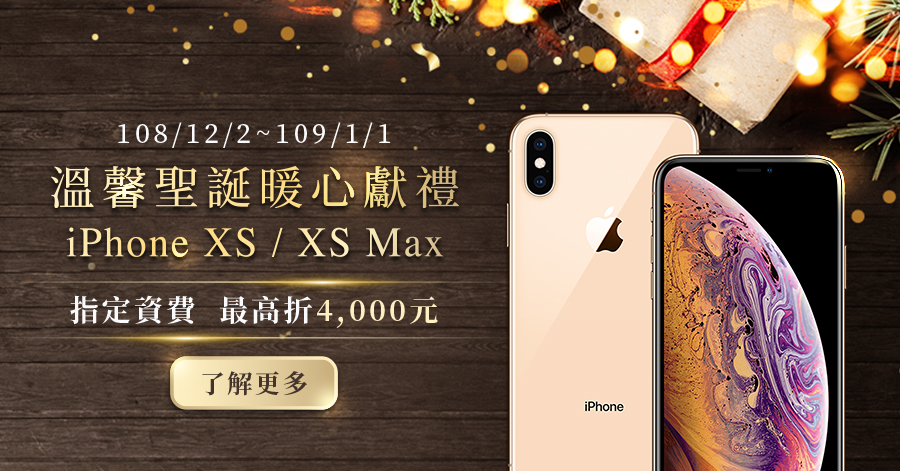
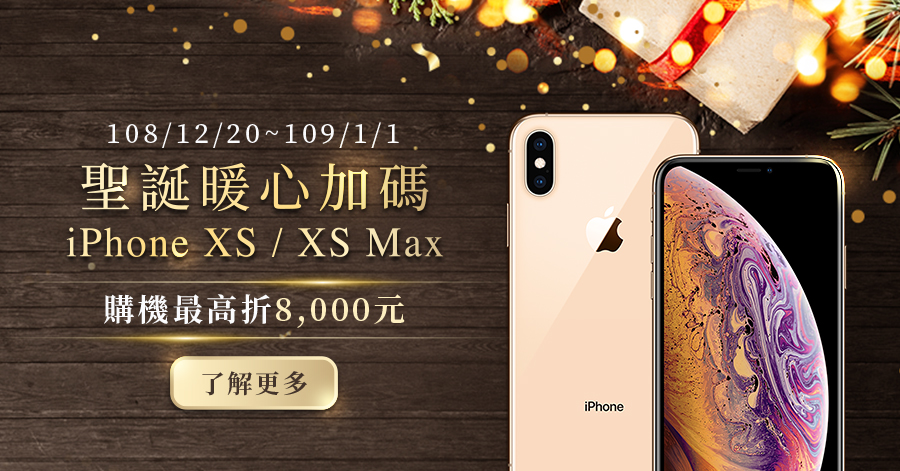
iPhone
各方案活動日期調整
各方案活動地點調整
大4G方案內容更換
大4G保護文字修改
學生方案機型價格調整
699方案機型價格調整
升4G方案機型價格調整
單購機方案機型價格調整

Changed region(s): [[0.0622, 0.2378, 0.5289, 0.4459], [0.0622, 0.6242, 0.4978, 0.6837]]

diff --git a/demo/iPhone/index.html b/demo/iPhone/index.html
@@ -40,21 +40,20 @@
 		<div class="swiper-wrapper">
 			<div class="swiper-slide">
 				<div class="main main-index container "> 
-				<div class="addBox">
-						<div class="box desktop-only">
-				<img class="index-image-iphone desktop-only" src="assets/images/banner_summer.jpg" usemap="#image-mapa02">
-				<map name="image-mapa02">
-				    <area target="" alt="了解更多" title="了解更多" href="https://iphone-eshop.cdn.hinet.net/Next.html?_ga=2.102152961.1258068184.1571229683-1536165108.1559028414" onclick="javascript:ga('send', 'event', 'btn1', 'action', 'iphone11moreinfo');" coords="535,352,681,404" shape="rect">
-				    <!-- <area target="_blank" alt="立即申辦" title="立即申辦" href="https://www.cht.com.tw/home/consumer/mobservice/device/phones?&_ga=2.94269402.650880896.1566806649-1759749731.1564449961#!brand%3Avalues%3Dapple%26_orderby%3A%26_page%3A1" coords="639,352,779,395" shape="rect"> -->
-				</map>
-				</div>
-				</div>
-
+					<div class="addBox desktop-only">
+						<div class="box">
+							<img class="index-image-iphone desktop-only" src="assets/images/banner_xmas.jpg" usemap="#mapmas">
+							<map name="mapmas">
+					    		<area target="_blank" alt="了解更多" title="了解更多" href="https://www.cht.com.tw/home/campaign/4gxmasapple?utm_campaign=4gxmas&utm_source=emome.net&utm_medium=referral&utm_content=iphone_pc" onclick="javascript:ga('send', 'event', 'btn1', 'action', '1220moreinfo');" coords="170,358,339,411" shape="rect">
+					    		<!-- <area target="_blank" alt="立即申辦" title="立即申辦" href="https://www.cht.com.tw/home/consumer/mobservice/device/phones?&_ga=2.94269402.650880896.1566806649-1759749731.1564449961#!brand%3Avalues%3Dapple%26_orderby%3A%26_page%3A1" coords="639,352,779,395" shape="rect"> -->
+							</map>
+						</div>
+					</div>
 					<div class="addBox mobile-only ">
 						<div class="box ">
-							<img class="index-image-iphone mobile-only " src="assets/images/banner_summer_m.jpg" usemap="#image-mapa01">
-							<map name="image-mapa01">
-								<area target="" alt="了解更多" title="了解更多" href="https://iphone-eshop.cdn.hinet.net/Next.html?_ga=2.102152961.1258068184.1571229683-1536165108.1559028414" onclick="javascript:ga('send', 'event', 'btn1', 'action', 'iphone11moreinfo');" coords="117,405,204,435" shape="rect">
+							<img class="index-image-iphone mobile-only " src="assets/images/banner_xmas_m.jpg" usemap="#mapmas_m">
+							<map name="mapmas_m">
+								<area target="_blank" alt="了解更多" title="了解更多" href="https://www.cht.com.tw/home/campaign/4gxmasapple?utm_campaign=4gxmas&utm_source=emome.net&utm_medium=referral&utm_content=iphone_m" onclick="javascript:ga('send', 'event', 'btn1', 'action', '1220moreinfo');" coords="107,391,216,427" shape="rect">
 							    <!-- <area target="_blank" alt="立即申辦" title="立即申辦" href="https://www.cht.com.tw/home/consumer/mobservice/device/phones?&_ga=2.94269402.650880896.1566806649-1759749731.1564449961#!brand%3Avalues%3Dapple%26_orderby%3A%26_page%3A1" coords="166,383,245,406" shape="rect">-->
 							</map>
 						</div>
@@ -63,34 +62,33 @@
 			</div>
 			<div class="swiper-slide">
 				<div class="main main-index container "> 
-					<div class="addBox">
-							<div class="box desktop-only">
-								<img class="index-image-iphone desktop-only" src="assets/images/banner_xmas.jpg" usemap="#mapmas">
-								<map name="mapmas">
-						    		<area target="_blank" alt="了解更多" title="了解更多" href="https://tracker.ssp.hinet.net/c/283?utm_campaign=4gxmas&utm_source=emome.net&utm_medium=referral&utm_content=iphone_pc" onclick="javascript:ga('send', 'event', 'btn1', 'action', 'iphoneXSmoreinfo');" coords="170,358,339,411" shape="rect">
-						    		<!-- <area target="_blank" alt="立即申辦" title="立即申辦" href="https://www.cht.com.tw/home/consumer/mobservice/device/phones?&_ga=2.94269402.650880896.1566806649-1759749731.1564449961#!brand%3Avalues%3Dapple%26_orderby%3A%26_page%3A1" coords="639,352,779,395" shape="rect"> -->
-								</map>
-							</div>
+					<div class="addBox desktop-only">
+						<div class="box">
+							<img class="index-image-iphone desktop-only" src="assets/images/banner_summer.jpg" usemap="#image-mapa02">
+							<map name="image-mapa02">
+							    <area target="" alt="了解更多" title="了解更多" href="https://iphone-eshop.cdn.hinet.net/Next.html?_ga=2.102152961.1258068184.1571229683-1536165108.1559028414" onclick="javascript:ga('send', 'event', 'btn1', 'action', 'iphone11moreinfo');" coords="535,352,681,404" shape="rect">
+							    <!-- <area target="_blank" alt="立即申辦" title="立即申辦" href="https://www.cht.com.tw/home/consumer/mobservice/device/phones?&_ga=2.94269402.650880896.1566806649-1759749731.1564449961#!brand%3Avalues%3Dapple%26_orderby%3A%26_page%3A1" coords="639,352,779,395" shape="rect"> -->
+							</map>
+						</div>
 					</div>
 					<div class="addBox mobile-only ">
 						<div class="box ">
-							<img class="index-image-iphone mobile-only " src="assets/images/banner_xmas_m.jpg" usemap="#mapmas_m">
-							<map name="mapmas_m">
-								<area target="_blank" alt="了解更多" title="了解更多" href="https://tracker.ssp.hinet.net/c/284?utm_campaign=4gxmas&utm_source=emome.net&utm_medium=referral&utm_content=iphone_m" onclick="javascript:ga('send', 'event', 'btn1', 'action', 'iphoneXSmoreinfo');" coords="107,391,216,427" shape="rect">
-							    <!-- <area target="_blank" alt="立即申辦" title="立即申辦" href="https://www.cht.com.tw/home/consumer/mobservice/device/phones?&_ga=2.94269402.650880896.1566806649-1759749731.1564449961#!brand%3Avalues%3Dapple%26_orderby%3A%26_page%3A1" coords="166,383,245,406" shape="rect">-->
-							</map>
+							<img class="index-image-iphone mobile-only " src="assets/images/banner_summer_m.jpg" usemap="#image-mapa01">
+								<map name="image-mapa01">
+									<area target="" alt="了解更多" title="了解更多" href="https://iphone-eshop.cdn.hinet.net/Next.html?_ga=2.102152961.1258068184.1571229683-1536165108.1559028414" onclick="javascript:ga('send', 'event', 'btn1', 'action', 'iphone11moreinfo');" coords="117,405,204,435" shape="rect">
+								    <!-- <area target="_blank" alt="立即申辦" title="立即申辦" href="https://www.cht.com.tw/home/consumer/mobservice/device/phones?&_ga=2.94269402.650880896.1566806649-1759749731.1564449961#!brand%3Avalues%3Dapple%26_orderby%3A%26_page%3A1" coords="166,383,245,406" shape="rect">-->
+								</map>
 						</div>
 					</div>
 				</div>
 			</div>
             <div class="swiper-slide">
 				<div class="main main-index container "> 
-				<div class="addBox desktop-only">
-				    <div class="box">
-				        <a href="https://itunes.emome.net/2019icloudevent" onclick="javascript:ga('send', 'event', 'btn1', 'action', 'icloud');"><img class="index-image-iphone desktop-only" src="assets/images/banner.jpg" ></a>
-				    </div>
-				</div>
-
+					<div class="addBox desktop-only">
+					    <div class="box">
+					        <a href="https://itunes.emome.net/2019icloudevent" onclick="javascript:ga('send', 'event', 'btn1', 'action', 'icloud');"><img class="index-image-iphone desktop-only" src="assets/images/banner.jpg" ></a>
+					    </div>
+					</div>
 					<div class="addBox mobile-only ">
 						<div class="box ">
 							<a href="https://itunes.emome.net/2019icloudevent" onclick="javascript:ga('send', 'event', 'btn1', 'action', 'icloud');"><img class="index-image-iphone mobile-only " src="assets/images/banner_m.jpg" usemap="#image-mapb02"></a>

diff --git a/demo/iPhone/assets/js/app.js b/demo/iPhone/assets/js/app.js
@@ -73,10 +73,10 @@ var plan_content = {
         "content": [
             ["h1row", "iPhone XR", "64GB", "-", "17,500", "16,500"],
             ["h1row", "iPhone XR", "128GB", "-", "19,500", "18,500"],
-            ["h1row", "iPhone XR", "256GB", "-", "23,100", "22,100"],
+            ["h1row", "iPhone XR", "256GB", "-", "21,100", "20,100"],
             ["h1row", "iPhone XS", "64GB", "-", "28,900", "27,900"],
             ["h1row", "iPhone XS", "256GB", "-", "34,500", "33,500"],
-            ["h1row", "iPhone XS", "512GB", "-", "41,900", "40,900"],
+            ["h1row", "iPhone XS", "512GB", "-", "37,900", "36,900"],
             ["h1row", "iPhone XS Max", "64GB", "-", "31,900", "30,900"],
             ["h1row", "iPhone XS Max", "256GB", "-", "37,500", "36,500"],
             ["h1row", "iPhone XS Max", "512GB", "-", "44,900", "43,900"],
@@ -95,9 +95,9 @@ var plan_content = {
     'upgrade.json': {
         "type": "table3",
         "content": [
-            ["iPhone XR", "64GB", "21,500",  "128GB", "23,500", "256GB", "27,100"],
-            ["iPhone XS", "64GB", "32,900",  "256GB", "38,500",  "512GB", "45,900"],
-            ["iPhone XS Max", "64GB", "35,900",  "256GB", "41,500", "512GB", "48,900"],
+            ["iPhone XR", "64GB", "21,500",  "128GB", "23,500", "256GB", "25,100"],
+            ["iPhone XS", "64GB", "32,900",  "256GB", "38,500",  "512GB", "41,900"],
+            ["iPhone XS Max", "64GB", "35,900",  "256GB", "41,500", "512GB", "44,900"],
             ["iPhone 7", "32GB", "12,900","128GB", "14,900"],
             ["iPhone 7 Plus", "32GB", "15,500","128GB", "17,500"],
             ["iPhone 8", "64GB", "15,900","128GB", "17,900",  "256GB", "21,500"],
@@ -184,13 +184,13 @@ var plan_content = {
         "content": [
             ["h1row", "iPhone XR", "64GB", "16,000"],
             ["h1row", "iPhone XR", "128GB", "18,000"],
-            ["h1row", "iPhone XR", "256GB", "21,600"],
+            ["h1row", "iPhone XR", "256GB", "19,600"],
             ["h1row", "iPhone XS", "64GB", "27,400"],
             ["h1row", "iPhone XS", "256GB", "33,000"],
-            ["h1row", "iPhone XS", "512GB", "40,400"],
+            ["h1row", "iPhone XS", "512GB", "36,400"],
             ["h1row", "iPhone XS Max", "64GB", "30,400"],
             ["h1row", "iPhone XS Max", "256GB", "36,000"],
-            ["h1row", "iPhone XS Max", "512GB", "43,400"],
+            ["h1row", "iPhone XS Max", "512GB", "39,400"],
             ["h1row", "iPhone 8", "64GB", "10,400"],
             ["h1row", "iPhone 8", "128GB", "12,400"],
             ["h1row", "iPhone 8", "256GB", "16,000"],

diff --git a/demo/iPhone/plan_4g.html b/demo/iPhone/plan_4g.html
@@ -47,11 +47,11 @@
             <table>
                 <tr>
                     <td>活動期間：</td>
-                    <td>自108/12/02起至109/01/01</td>
+                    <td>自108/12/20起至109/01/01</td>
                 </tr>
                 <tr>
                     <td>申辦地點：</td>
-                    <td>中華電信iPhone服務據點、特約服務中心、中華電信網路門市</td>
+                    <td>中華電信iPhone服務據點(含特約服務中心) / 網路門市</td>
                 </tr>
                 <tr>
                     <td>適用對象：<div id="ttable"></div>
@@ -121,7 +121,7 @@
             <h3><span class="h3-border">貼心小叮嚀</h3>
             <ol>
                 <li> 詳細方案優惠內容與限制請詳閱<a href="https://eshop.cht.com.tw/home/Campaign/big4g/index.html?utm_source=news&utm_medium=referral&utm_campaign=big4g&utm_term=2017q3&_ga=2.98175775.1683239904.1531883624-1448243386.1523848672" target="_blank" onclick="javascript:ga('send', 'event', 'btn1', 'action', '4gnew_more');">大4G方案頁面</a>。</li>
-                <li>108/12/02起至109/01/01止，搭配大4G購機方案(24/30/36個月)購買iPhone XS、iPhone XS Max，月繳999/1,199元購機折2,000元、月繳1,399元以上購機折4,000元，手機促銷至多折至0元止。</li>
+                <li>108/12/20起至109/01/01止，搭配大4G購機方案(24/30/36個月)購買iPhone XS、iPhone XS Max，月繳999/1,199元購機折6,000元、月繳1,399元以上購機折8,000元，手機促銷至多折至0元止。</li>
 				<li> iPhone服務據點詳細資訊請至中華電信網站<a href="https://www.cht.com.tw/home/cht/about-cht/business-group/store-locator" target="_blank">查詢</a>。上述機型/顏色/容量供貨情況依各服務據點現場為準，數量有限售完為止，詳情請洽服務據點人員。</li>
 				<li> 上述優惠內容與相關條件限制依申辦現場同意書為準，中華電信保有隨時修正、暫停、中止本活動之權利。</li>
             </ol>

diff --git a/demo/iPhone/plan_student.html b/demo/iPhone/plan_student.html
@@ -37,11 +37,11 @@
             <table>
                 <tr>
                     <td>活動期間：</td>
-                    <td>自108/10/01起至109/01/01</td>
+                    <td>自108/12/20起至109/01/01</td>
                 </tr>
                 <tr>
                     <td>申辦地點：</td>
-                    <td>中華電信iPhone服務據點、特約服務中心、中華電信網路門市</td>
+                    <td>中華電信iPhone服務據點(含特約服務中心) / 網路門市</td>
                 </tr>
                 <tr>
                     <td>適用對象：</td>

diff --git a/demo/iPhone/plan_upgrade.html b/demo/iPhone/plan_upgrade.html
@@ -37,12 +37,11 @@
             <table>
                 <tr>
                     <td>活動期間：</td>
-                    <td>自108/10/01起</td>
+                    <td>自108/12/20起</td>
                 </tr>
                 <tr>
                     <td>申辦地點：</td>
-                    <td>中華電信iPhone服務據點、特約服務中心
-                    </td>
+                    <td>中華電信iPhone服務據點(含特約服務中心) / 網路門市</td>
                 </tr>
             </table>
         </div>

diff --git a/demo/iPhone/plan_699.html b/demo/iPhone/plan_699.html
@@ -47,11 +47,11 @@
 			<table>
 				<tr>
 					<td>活動期間：</td>
-					<td>自108/10/01起至109/01/01</td>
+					<td>自108/12/20起至109/01/01</td>
 				</tr>
 				<tr>
 					<td>申辦地點：</td>
-					<td>中華電信iPhone服務據點、特約服務中心、中華電信網路門市</td>
+					<td>中華電信iPhone服務據點(含特約服務中心) / 網路門市</td>
 				</tr>
 				<tr>
 					<td>適用對象：<div id="ttable"></div>

diff --git a/demo/iPhone/plan_4g_up.html b/demo/iPhone/plan_4g_up.html
@@ -50,8 +50,7 @@
 				</tr>
 				<tr>
 					<td>申辦地點：</td>
-					<td>中華電信iPhone服務據點、特約服務中心
-					</td>
+					<td>中華電信iPhone服務據點(含特約服務中心) / 網路門市</td>
 				</tr>
 				<tr>
 					<td>適用對象：<div id="ttable"></div>

diff --git a/demo/iPhone/assets/css/app.css b/demo/iPhone/assets/css/app.css
@@ -758,7 +758,10 @@ a {
 
 @media screen and (max-width: 639px) {
   .main-index a {
-    padding: 15px 30px;
+    /*padding: 15px 30px;*/
+  }
+  .main-index .addBox .box{
+   padding: 15px 30px; 
   }
 
   .addBox .box2 img {
